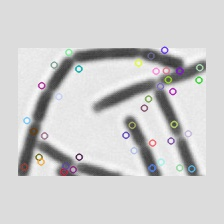
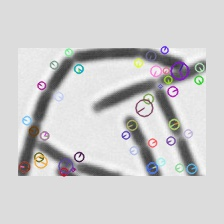
sift: add flag for visualization

diff --git a/traditional/random_forest/sift.py b/traditional/random_forest/sift.py
@@ -7,6 +7,6 @@ gray= cv2.cvtColor(img,cv2.COLOR_BGR2GRAY)
 sift = cv2.xfeatures2d.SIFT_create()
 kp = sift.detect(gray,None)
 
-cv2.drawKeypoints(gray,kp, img)
+cv2.drawKeypoints(gray,kp, img, flags=cv2.DRAW_MATCHES_FLAGS_DRAW_RICH_KEYPOINTS)
 
 cv2.imwrite('sift_lacto000000.jpg',img)
